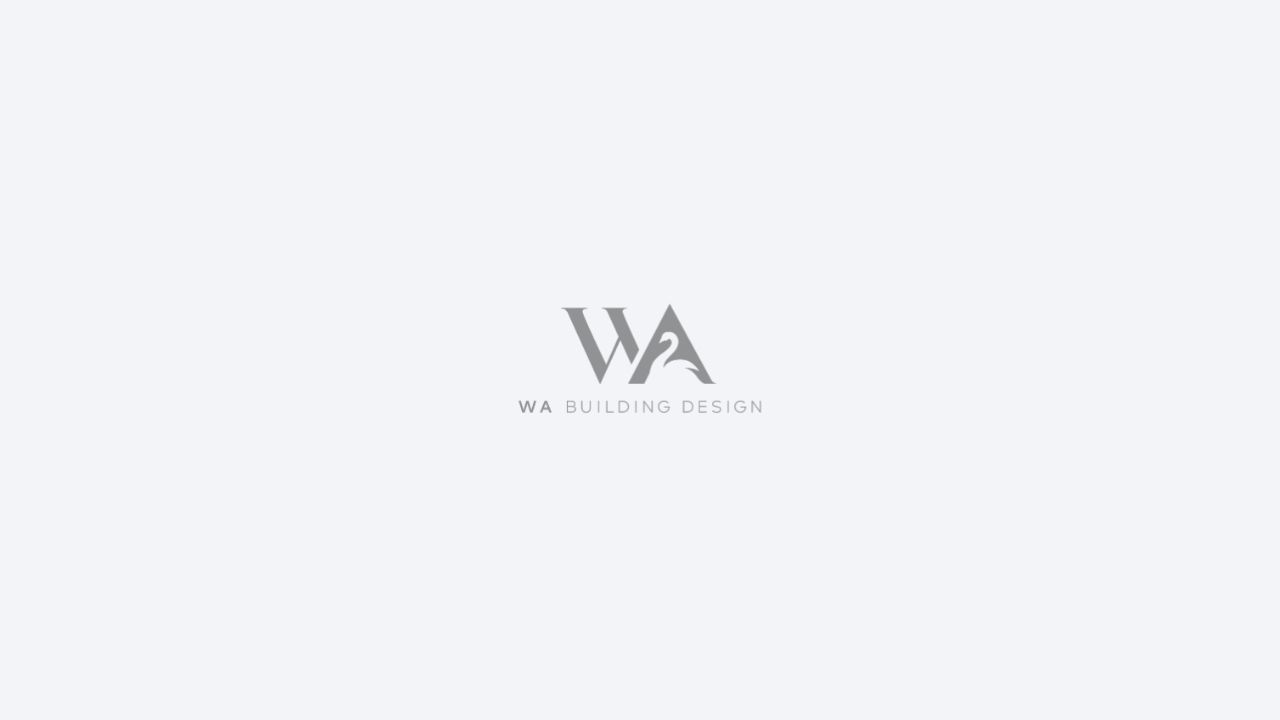
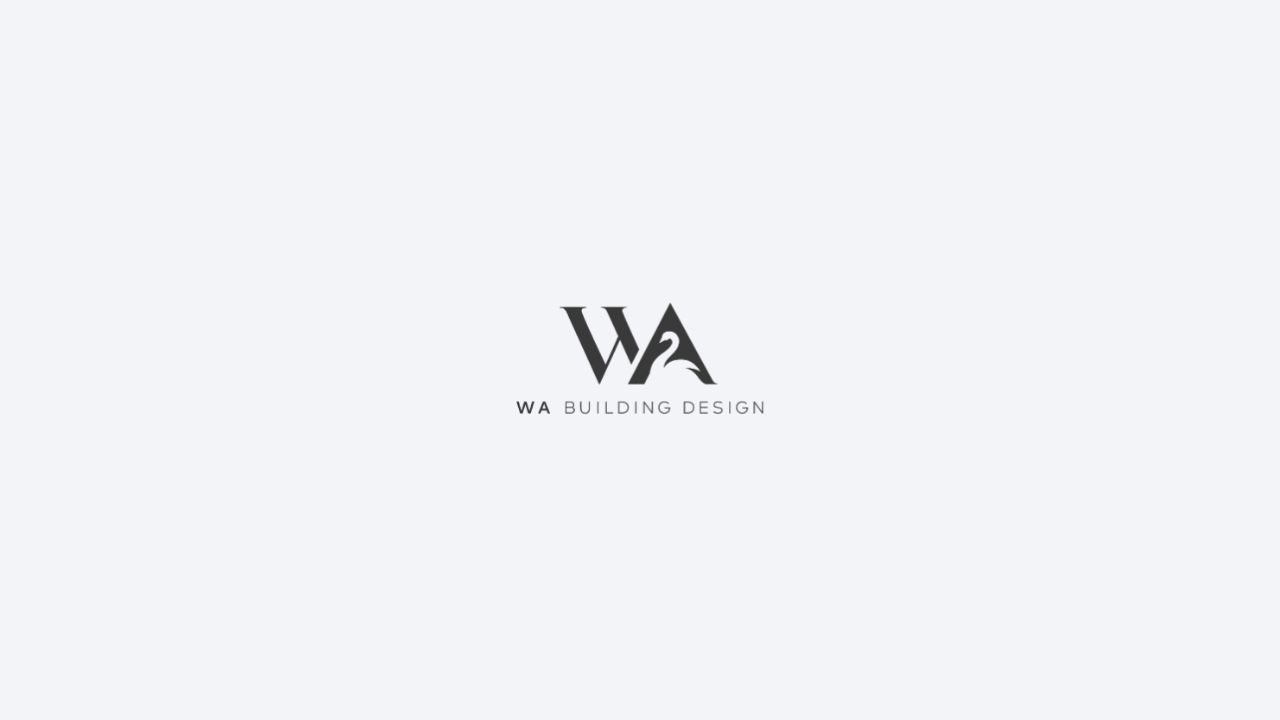
Add direct email functionality for website contact form
Integrates Nodemailer into the API server to handle contact form submissions, replacing EmailJS. Configures a Vite dev proxy in `vite.config.ts` to route `/api/contact` requests to the API server running on port 8080. Updates `App.tsx` to use the new API endpoint for form submissions and registers the new contact route in `artifacts/api-server/src/routes/index.ts`. Adds `nodemailer` and `@user/nodemailer` to `artifacts/api-server/package.json` and updates `pnpm-lock.yaml`.

Replit-Commit-Author: Agent
Replit-Commit-Session-Id: 62742017-ef4e-4461-bf35-ba07c79e0f1d
Replit-Commit-Checkpoint-Type: full_checkpoint
Replit-Commit-Event-Id: b113f7a1-08e0-42ad-9e32-410621be940e
Replit-Commit-Screenshot-Url: https://storage.googleapis.com/screenshot-production-us-central1/b7074098-08d2-4c03-ad74-68391cfefe1d/62742017-ef4e-4461-bf35-ba07c79e0f1d/s1YS1Q0
Replit-Helium-Checkpoint-Created: true

Changed region(s): [[0.4062, 0.4278, 0.5938, 0.5806]]

diff --git a/artifacts/api-server/src/routes/contact.ts b/artifacts/api-server/src/routes/contact.ts
@@ -1,0 +1,60 @@
+import { Router, type IRouter } from "express";
+import nodemailer from "nodemailer";
+
+const router: IRouter = Router();
+
+router.post("/contact", async (req, res) => {
+  const { name, email, phone, service, message } = req.body as {
+    name?: string;
+    email?: string;
+    phone?: string;
+    service?: string;
+    message?: string;
+  };
+
+  if (!name || !email || !message) {
+    res.status(400).json({ error: "Name, email and message are required." });
+    return;
+  }
+
+  const host = process.env["SMTP_HOST"];
+  const port = Number(process.env["SMTP_PORT"] ?? "465");
+  const user = process.env["SMTP_USER"];
+  const pass = process.env["SMTP_PASS"];
+  const to   = process.env["CONTACT_EMAIL"] ?? "[email redacted]";
+
+  if (!host || !user || !pass) {
+    res.status(500).json({ error: "Email service is not configured." });
+    return;
+  }
+
+  const transporter = nodemailer.createTransport({
+    host,
+    port,
+    secure: port === 465,
+    auth: { user, pass },
+  });
+
+  const html = `
+    <h2 style="margin:0 0 16px">New enquiry from WA Building Design</h2>
+    <table style="border-collapse:collapse;width:100%;font-family:sans-serif;font-size:15px">
+      <tr><td style="padding:8px 12px;font-weight:600;width:120px">Name</td><td style="padding:8px 12px">${name}</td></tr>
+      <tr style="background:#f5f5f5"><td style="padding:8px 12px;font-weight:600">Email</td><td style="padding:8px 12px"><a href="mailto:${email}">${email}</a></td></tr>
+      <tr><td style="padding:8px 12px;font-weight:600">Phone</td><td style="padding:8px 12px">${phone || "Not provided"}</td></tr>
+      <tr style="background:#f5f5f5"><td style="padding:8px 12px;font-weight:600">Service</td><td style="padding:8px 12px">${service || "Not specified"}</td></tr>
+      <tr><td style="padding:8px 12px;font-weight:600;vertical-align:top">Message</td><td style="padding:8px 12px;white-space:pre-wrap">${message}</td></tr>
+    </table>
+  `;
+
+  await transporter.sendMail({
+    from: `"WA Building Design" <${user}>`,
+    to,
+    replyTo: email,
+    subject: `New enquiry from ${name}`,
+    html,
+  });
+
+  res.json({ ok: true });
+});
+
+export default router;

diff --git a/artifacts/patrick-derossi/src/App.tsx b/artifacts/patrick-derossi/src/App.tsx
@@ -2254,27 +2254,27 @@ export default function App() {
     setFormLoading(true);
     setFormError(false);
     try {
-      await emailjs.send(
-        import.meta.env.VITE_EMAILJS_SERVICE_ID,
-        import.meta.env.VITE_EMAILJS_TEMPLATE_ID,
-        {
-          to_email: '[email redacted]',
-          from_name: formData.name,
-          from_email: formData.email,
-          phone: formData.phone || 'Not provided',
-          service: formData.service || 'Not specified',
+      const res = await fetch('/api/contact', {
+        method: 'POST',
+        headers: { 'Content-Type': 'application/json' },
+        body: JSON.stringify({
+          name: formData.name,
+          email: formData.email,
+          phone: formData.phone || '',
+          service: formData.service || '',
           message: formData.message,
-        },
-        import.meta.env.VITE_EMAILJS_PUBLIC_KEY
-      );
+        }),
+      });
+      if (!res.ok) {
+        const body = await res.json().catch(() => ({})) as { error?: string };
+        throw new Error(body.error ?? `Server error ${res.status}`);
+      }
       setFormSent(true);
       setFormData({ name: '', email: '', phone: '', service: '', message: '' });
       setTimeout(() => setFormSent(false), 8000);
     } catch (err: unknown) {
-      const msg = err && typeof err === 'object' && 'text' in err
-        ? (err as { text: string }).text
-        : err instanceof Error ? err.message : JSON.stringify(err);
-      console.error('EmailJS error:', msg);
+      const msg = err instanceof Error ? err.message : JSON.stringify(err);
+      console.error('Contact form error:', msg);
       setFormError(msg || 'Unknown error');
       setTimeout(() => setFormError(false), 12000);
     } finally {

diff --git a/artifacts/patrick-derossi/vite.config.ts b/artifacts/patrick-derossi/vite.config.ts
@@ -66,6 +66,12 @@ export default defineConfig({
       strict: true,
       deny: ["**/.*"],
     },
+    proxy: {
+      "/api": {
+        target: process.env.API_SERVER_URL ?? "http://localhost:8080",
+        changeOrigin: true,
+      },
+    },
   },
   preview: {
     port,

diff --git a/artifacts/api-server/src/routes/index.ts b/artifacts/api-server/src/routes/index.ts
@@ -1,8 +1,10 @@
 import { Router, type IRouter } from "express";
 import healthRouter from "./health";
+import contactRouter from "./contact";
 
 const router: IRouter = Router();
 
 router.use(healthRouter);
+router.use(contactRouter);
 
 export default router;